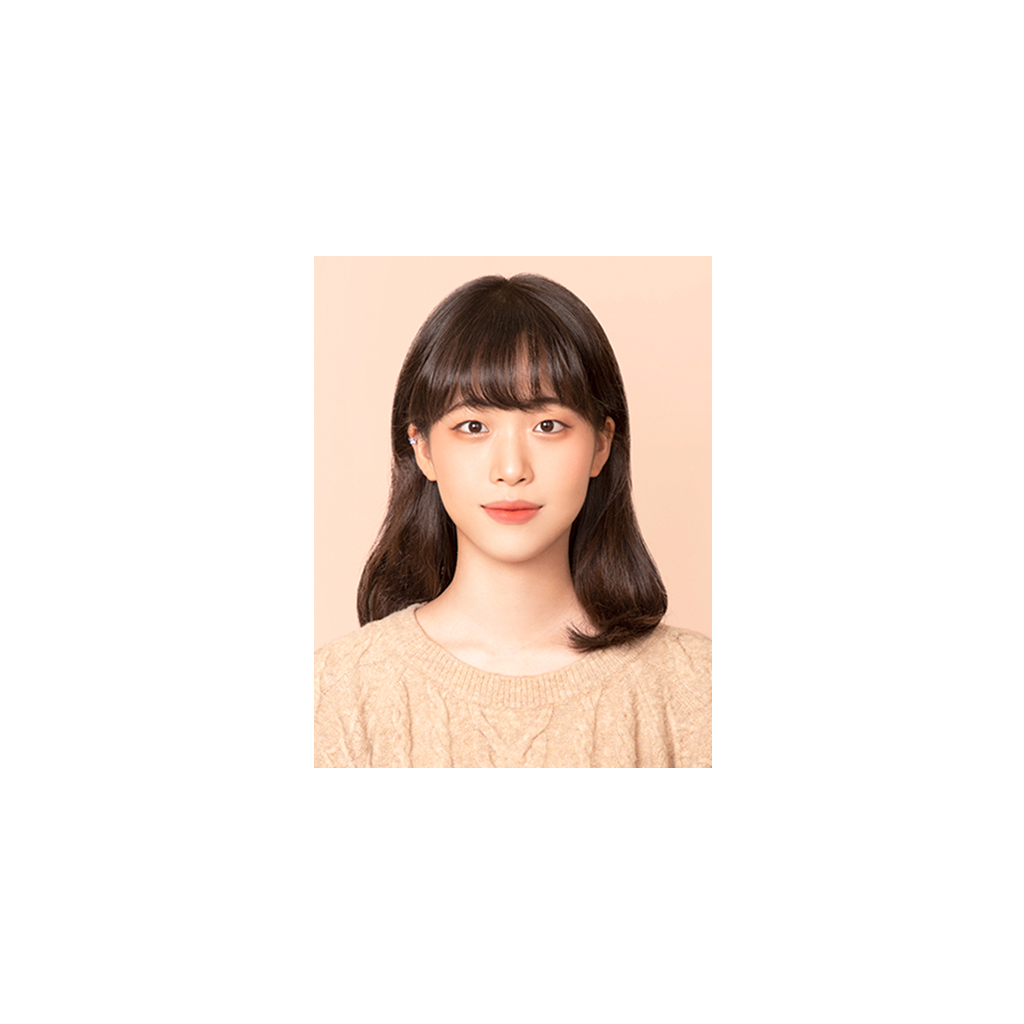
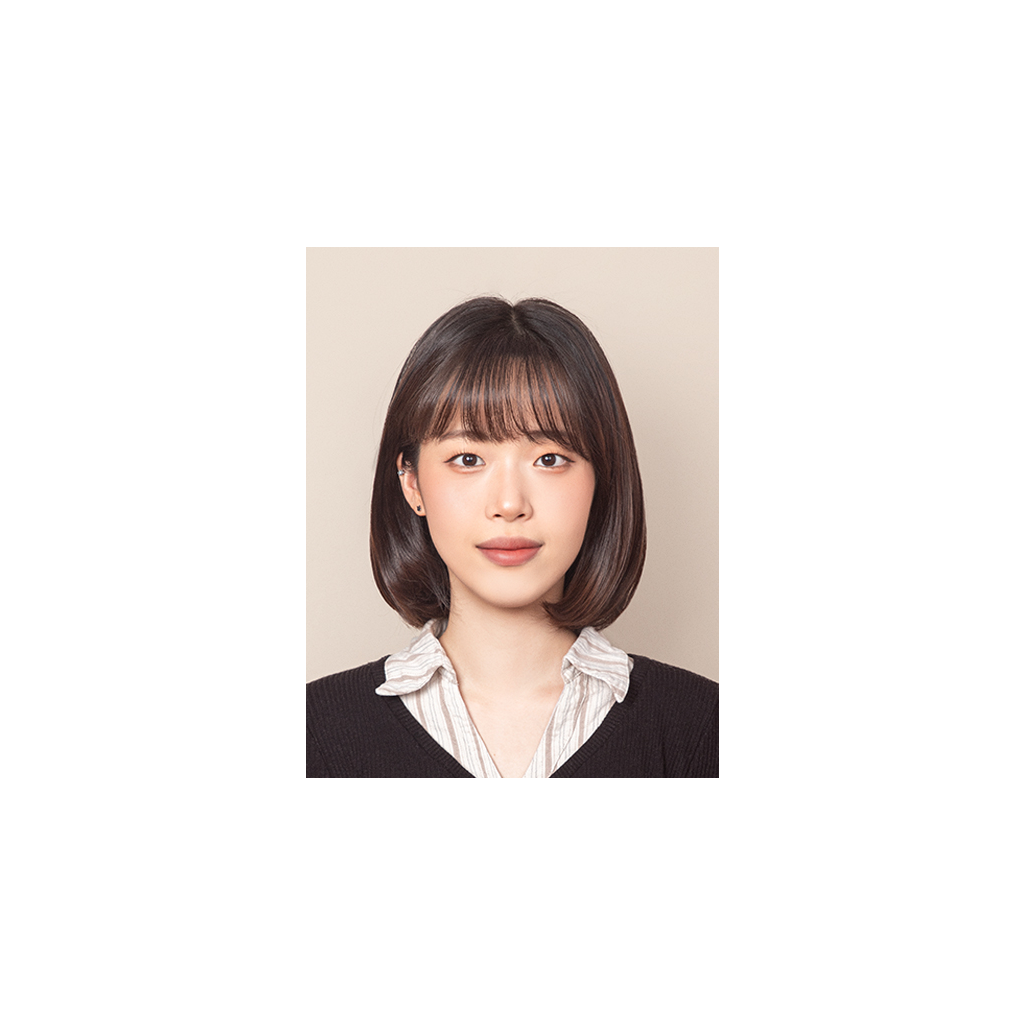
deploy: 90684a9ec6cb55dcc9f29e7a7fc66c202850804f

Changed region(s): [[0.2812, 0.2188, 0.7188, 0.7812]]

diff --git a/index.html b/index.html
@@ -13,7 +13,7 @@
 </span><span class=article-date></span></div><a href=./group/seungjun.html><div class=img-hover-zoom><img src=./group/seungjun/featured_hu8293042916043213150.webp height=455 width=808 class=article-banner alt="Seungjun Na" loading=lazy></div></a><div class="section-subheading article-title mb-1 mt-3"><a href=./group/seungjun.html>Seungjun Na</a></div><a href=./group/seungjun.html class=summary-link><div class=article-style><p><h3 id=intern-class-of-2025>Intern (Class of 2025)</h3><p>B.S Environmental engineering, Kangwon National University (Expected in Feb. 2027).</p><p><strong>Research topic:</strong><br>Energy recovery, Process modeling, Anaerobic digestion, Techno-economic analysis (TEA), Environmental impact assessment (EIA), Life-cycle assessment (LCA)</p></p></div></a><div class=btn-links><a class="btn btn-outline-primary btn-page-header btn-sm" href=mailto:zofldj54@kangwon.ac.kr><i class="fas fa-envelope mr-1"></i>zofldj54@kangwon.ac.kr</a></div></div></div><div class="project-card project-item isotope-item js-id-Intern"><div class="card-simple view-card"><div class=article-metadata><span class=article-date>Posted Sep 1, 2025
 </span><span class=article-date></span></div><a href=./group/taeyoon.html><div class=img-hover-zoom><img src=./group/taeyoon/featured_hu17779312441646726429.webp height=455 width=808 class=article-banner alt="Taeyoon Kim" loading=lazy></div></a><div class="section-subheading article-title mb-1 mt-3"><a href=./group/taeyoon.html>Taeyoon Kim</a></div><a href=./group/taeyoon.html class=summary-link><div class=article-style><p><h3 id=intern-founding-team>Intern (Founding team)</h3><p>B.S Environmental engineering, Kangwon National University (Expected in Aug. 2026).</p><p><strong>Research topic:</strong><br>Multimodal AI, Air quality, Spatial and temporal analysis, Scenario analysis</p></p></div></a><div class=btn-links><a class="btn btn-outline-primary btn-page-header btn-sm" href=mailto:ytk0816@naver.com><i class="fas fa-envelope mr-1"></i>ytk0816@naver.com</a></div></div></div><div class="project-card project-item isotope-item js-id-Intern"><div class="card-simple view-card"><div class=article-metadata><span class=article-date>Posted Sep 1, 2025
 </span><span class=article-date></span></div><a href=./group/wonjae.html><div class=img-hover-zoom><img src=./group/wonjae/featured_hu14562645930733829773.webp height=455 width=808 class=article-banner alt="Wonjae Choi" loading=lazy></div></a><div class="section-subheading article-title mb-1 mt-3"><a href=./group/wonjae.html>Wonjae Choi</a></div><a href=./group/wonjae.html class=summary-link><div class=article-style><p><h3 id=intern-founding-team>Intern (Founding team)</h3><p>B.S Environmental engineering, Kangwon National University (Expected in Aug. 2026).</p><p><strong>Research topic:</strong><br>Multimodal AI, Air quality, Spatial and temporal analysis, Scenario analysis</p></p></div></a><div class=btn-links><a class="btn btn-outline-primary btn-page-header btn-sm" href=mailto:wonjae6147@kangwon.ac.kr><i class="fas fa-envelope mr-1"></i>wonjae6147@kangwon.ac.kr</a></div></div></div><div class="project-card project-item isotope-item js-id-Researcher"><div class="card-simple view-card"><div class=article-metadata><span class=article-date>Posted Apr 1, 2025
-</span><span class=article-date></span></div><a href=./group/seonju.html><div class=img-hover-zoom><img src=./group/seonju/featured_hu10990116834252730146.webp height=455 width=808 class=article-banner alt="Seonju Kim" loading=lazy></div></a><div class="section-subheading article-title mb-1 mt-3"><a href=./group/seonju.html>Seonju Kim</a></div><a href=./group/seonju.html class=summary-link><div class=article-style><p><h3 id=researcher-integrated-bsms-course>Researcher (Integrated BS/MS course)</h3><p>B.S Environmental engineering, Kangwon National University (Expected in Aug. 2026).</p><p><strong>Research topic:</strong><br>AI, Process optimization, Autonomous design and process synthesis, Decarbonization</p></p></div></a><div class=btn-links><a class="btn btn-outline-primary btn-page-header btn-sm" href=mailto:sun_zooo@kangwon.ac.kr><i class="fas fa-envelope mr-1"></i>sun_zooo@kangwon.ac.kr</a></div></div></div><div class="project-card project-item isotope-item js-id-Leader"><div class="card-simple view-card"><div class=article-metadata><span class=article-date>Posted Mar 1, 2025
+</span><span class=article-date></span></div><a href=./group/seonju.html><div class=img-hover-zoom><img src=./group/seonju/featured_hu15458379116448266095.webp height=455 width=808 class=article-banner alt="Seonju Kim" loading=lazy></div></a><div class="section-subheading article-title mb-1 mt-3"><a href=./group/seonju.html>Seonju Kim</a></div><a href=./group/seonju.html class=summary-link><div class=article-style><p><h3 id=researcher-integrated-bsms-course>Researcher (Integrated BS/MS course)</h3><p>B.S Environmental engineering, Kangwon National University (Expected in Aug. 2026).</p><p><strong>Research topic:</strong><br>AI, Process optimization, Autonomous design and process synthesis, Decarbonization</p></p></div></a><div class=btn-links><a class="btn btn-outline-primary btn-page-header btn-sm" href=mailto:sun_zooo@kangwon.ac.kr><i class="fas fa-envelope mr-1"></i>sun_zooo@kangwon.ac.kr</a></div></div></div><div class="project-card project-item isotope-item js-id-Leader"><div class="card-simple view-card"><div class=article-metadata><span class=article-date>Posted Mar 1, 2025
 </span><span class=article-date></span></div><a href=./group/sungku.html><div class=img-hover-zoom><img src=./group/sungku/featured_hu13287588013548874910.webp height=455 width=808 class=article-banner alt="SungKu Heo, Ph.D." loading=lazy></div></a><div class="section-subheading article-title mb-1 mt-3"><a href=./group/sungku.html>SungKu Heo, Ph.D.</a></div><a href=./group/sungku.html class=summary-link><div class=article-style><p><h3 id=leader>Leader</h3><p>Associate Professor, Dept. of Environmental Engineering, Kangwon National University</p></p></div></a><div class=btn-links><a class="btn btn-outline-primary btn-page-header btn-sm" href=mailto:sungku.heo@kangwon.ac.kr><i class="fas fa-envelope mr-1"></i>sungku.heo@kangwon.ac.kr</a></div></div></div></div></div></div></div></section><section id=publications class="home-section wg-pages"><div class=home-section-bg></div><div class=container><div class=row><div class="section-heading col-12 col-lg-4 mb-3 mb-lg-0 d-flex flex-column align-items-center align-items-lg-start"><h1 class=mb-0>Publications</h1><p class=mt-1>See also my <a href="https://scholar.google.com/citations?hl=ko&amp;user=Xix_ZHoAAAAJ" target=_blank rel=noopener>Scholar</a> profile</p></div><div class="col-12 col-lg-8"><div class="pub-list-item view-citation" style=margin-bottom:1rem><i class="far fa-file-alt pub-icon" aria-hidden=true></i>
 <span class="article-metadata li-cite-author"><span>SangYoun Kim</span>, <span>Shahzeb Tariq</span>, <span>SungKu Heo</span>, <span>Mohammad Moosazadeh</span>, <span>ChangKyoo Yoo</span>
 </span>(2025).

diff --git a/group/seonju.html b/group/seonju.html
@@ -10,7 +10,7 @@ AI, Process optimization, Autonomous design and process synthesis, Decarbonizati
 <span><i class="fas fa-bars"></i></span></button><div class="navbar-brand-mobile-wrapper d-inline-flex d-lg-none"><a class=navbar-brand href=../><img src=../media/logo.svg alt="Greenest A.I. Lab"></a></div><div class="navbar-collapse main-menu-item collapse justify-content-start" id=navbar-content><ul class="navbar-nav d-md-inline-flex"><li class=nav-item><a class=nav-link href=../index.html><span>Home</span></a></li><li class=nav-item><a class=nav-link href=../#group><span>Team</span></a></li><li class=nav-item><a class=nav-link href=../#publications><span>Publications</span></a></li><li class=nav-item><a class=nav-link href=../#news><span>News</span></a></li></ul></div><ul class="nav-icons navbar-nav flex-row ml-auto d-flex pl-md-2"><li class="nav-item d-none d-lg-inline-flex"><a class=nav-link href=https://github.com/GreenestAI target=_blank rel=noopener aria-label=github><i class="fab fa-github" aria-hidden=true></i></a></li><li class="nav-item dropdown theme-dropdown"><a href=# class=nav-link data-toggle=dropdown aria-haspopup=true aria-label="Display preferences"><i class="fas fa-moon" aria-hidden=true></i></a><div class=dropdown-menu><a href=# class="dropdown-item js-set-theme-light"><span>Light</span>
 </a><a href=# class="dropdown-item js-set-theme-dark"><span>Dark</span>
 </a><a href=# class="dropdown-item js-set-theme-auto"><span>Automatic</span></a></div></li></ul></div></nav></header></div><div class=page-body><div class="container-fluid docs"><div class=row><div class="col-xl-2 col-lg-2 d-none d-xl-block d-lg-block empty"></div><div class="col-2 col-xl-2 col-lg-2 d-none d-lg-block docs-toc"><ul class="nav toc-top"><li><a href=# id=back_to_top class=docs-toc-title>Contents</a></li></ul><nav id=TableOfContents><ul><li><ul><li><ul><li><a href=#researcher-integrated-bsms-course>Researcher (Integrated BS/MS course)</a></li></ul></li><li><a href=#poster-presentations>Poster Presentations:</a></li></ul></li></ul></nav></div><main class="col-xl-8 col-lg-8 docs-content" role=main><article class=article><div class="article-container pt-3"><h1 class=page-title>Seonju Kim</h1><div class=article-metadata><span class=article-date>Posted Apr 1, 2025
-</span><span class=article-date></span></div><div class="btn-links mb-3"><a class="btn btn-outline-primary btn-page-header" href=mailto:sun_zooo@kangwon.ac.kr><i class="fas fa-envelope mr-1"></i>sun_zooo@kangwon.ac.kr</a></div></div><div class="article-header article-container featured-image-wrapper mt-4 mb-4" style=max-width:720px;max-height:720px><div style=position:relative><img src=../group/seonju/featured_hu14014798711531770071.webp width=720 height=720 alt class=featured-image>
+</span><span class=article-date></span></div><div class="btn-links mb-3"><a class="btn btn-outline-primary btn-page-header" href=mailto:sun_zooo@kangwon.ac.kr><i class="fas fa-envelope mr-1"></i>sun_zooo@kangwon.ac.kr</a></div></div><div class="article-header article-container featured-image-wrapper mt-4 mb-4" style=max-width:720px;max-height:720px><div style=position:relative><img src=../group/seonju/featured_hu14509316335289313516.webp width=720 height=720 alt class=featured-image>
 <span class=article-header-caption>Seonju Kim</span></div></div><div class=article-container><div class=article-style align=justify><h3 id=researcher-integrated-bsms-course>Researcher (Integrated BS/MS course)</h3><p>B.S Environmental engineering, Kangwon National University (Expected in Aug. 2026).</p><p><strong>Research topic:</strong><br>AI, Process optimization, Autonomous design and process synthesis, Decarbonization</p><h2 id=poster-presentations>Poster Presentations:</h2><p><strong><a href=https://drive.google.com/file/d/1PtWzRDfFsCfqVeHXAH6qSWhHvORaWJNS/view target=_blank rel=noopener>1. Water AI-ready data 기반 N₂O 소프트센싱 알고리즘 개발</a></strong><br>Author: <u>Seonju Kim</u>, Sungku Heo<br>Conference: KSIEC Fall Meeting and Conference, Daegu, Korea, 2025</p></div><script src=../js/jquery-3.6.2.min.js></script><script src=../js/transition.js></script><script src=../js/collapse.js></script><script src=../js/dropdown.js></script><script src=https://cdn.jsdelivr.net/npm/popper.js@1.16.0/dist/umd/popper.min.js></script><script src=../js/codefolding.js></script><link rel=stylesheet href=../css/codefolding.css><script>$(document).ready(function(){window.initializeCodeFolding("show"==="show")})</script><div class=article-tags><a class="badge badge-light" href=../tag/researcher.html>Researcher</a></div><div class="media author-card content-widget-hr"><img class="avatar mr-3 avatar-circle" src=../authors/admin/avatar_hu9480991034087633340.png alt="Greenest A.I. Lab"><div class=media-body><h5 class=card-title>Greenest A.I. Lab</h5><h6 class=card-subtitle>Led by Prof. SungKu Heo</h6><p class=card-text>Environmental engineer researcher in environmental modeling and environmental AI in Kangwon National University (Department of Civil and Environmental Engineering, Environmental Engineering Major), in Chuncheon-si, Republic of Korea</p><ul class=network-icon aria-hidden=true><li><a href=mailto:sungku.heo@kangwon.ac.kr><i class="fas fa-envelope"></i></a></li><li><a href=https://github.com/GreenestAI target=_blank rel=noopener><i class="fab fa-github"></i></a></li><li><a href="https://scholar.google.com/citations?hl=ko&amp;user=Xix_ZHoAAAAJ" target=_blank rel=noopener><i class="fas fa-graduation-cap"></i></a></li><li><a href=https://sites.google.com/view/sungku-heo target=_blank rel=noopener><i class="ai ai-cv"></i></a></li></ul></div></div></div></article></main></div></div></div><div class=page-footer><div class=container><footer class=site-footer><p class="powered-by copyright-license-text">© 2026 Sungku Heo, based on work by Simon Gravelle. This work is licensed under <a href=https://creativecommons.org/licenses/by-sa/4.0 rel="noopener noreferrer" target=_blank>CC BY SA 4.0</a>.</p><p class="powered-by footer-license-icons"><a href=https://creativecommons.org/licenses/by-sa/4.0 rel="noopener noreferrer" target=_blank aria-label="Creative Commons"><i class="fab fa-creative-commons fa-2x" aria-hidden=true></i>
 <i class="fab fa-creative-commons-by fa-2x" aria-hidden=true></i>
 <i class="fab fa-creative-commons-sa fa-2x" aria-hidden=true></i></a></p><br style=line-height:5px></footer></div></div><script src=../js/vendor-bundle.min.4684ca30d68fb8aed8d4debfcc18beed.js></script><script id=search-hit-fuse-template type=text/x-template>

diff --git a/group.html b/group.html
@@ -9,7 +9,7 @@
 </span><span class=article-date></span></div></div><div class=btn-links><a class="btn btn-outline-primary btn-page-header btn-sm" href=mailto:zofldj54@kangwon.ac.kr><i class="fas fa-envelope mr-1"></i>zofldj54@kangwon.ac.kr</a></div></div><div class=ml-3><a href=./group/seungjun.html><img src=./group/seungjun/featured_hu8708657372669352291.webp height=150 width=150 alt="Seungjun Na" loading=lazy></a></div></div><div class="media stream-item view-compact"><div class=media-body><div class="section-subheading article-title mb-0 mt-0"><a href=./group/taeyoon.html>Taeyoon Kim</a></div><a href=./group/taeyoon.html class=summary-link><div class=article-style><h3 id=intern-founding-team>Intern (Founding team)</h3><p>B.S Environmental engineering, Kangwon National University (Expected in Aug. 2026).</p><p><strong>Research topic:</strong><br>Multimodal AI, Air quality, Spatial and temporal analysis, Scenario analysis</p></div></a><div class="stream-meta article-metadata"><div class=article-metadata><span class=article-date>Posted Sep 1, 2025
 </span><span class=article-date></span></div></div><div class=btn-links><a class="btn btn-outline-primary btn-page-header btn-sm" href=mailto:ytk0816@naver.com><i class="fas fa-envelope mr-1"></i>ytk0816@naver.com</a></div></div><div class=ml-3><a href=./group/taeyoon.html><img src=./group/taeyoon/featured_hu12723303105613768411.webp height=150 width=150 alt="Taeyoon Kim" loading=lazy></a></div></div><div class="media stream-item view-compact"><div class=media-body><div class="section-subheading article-title mb-0 mt-0"><a href=./group/wonjae.html>Wonjae Choi</a></div><a href=./group/wonjae.html class=summary-link><div class=article-style><h3 id=intern-founding-team>Intern (Founding team)</h3><p>B.S Environmental engineering, Kangwon National University (Expected in Aug. 2026).</p><p><strong>Research topic:</strong><br>Multimodal AI, Air quality, Spatial and temporal analysis, Scenario analysis</p></div></a><div class="stream-meta article-metadata"><div class=article-metadata><span class=article-date>Posted Sep 1, 2025
 </span><span class=article-date></span></div></div><div class=btn-links><a class="btn btn-outline-primary btn-page-header btn-sm" href=mailto:wonjae6147@kangwon.ac.kr><i class="fas fa-envelope mr-1"></i>wonjae6147@kangwon.ac.kr</a></div></div><div class=ml-3><a href=./group/wonjae.html><img src=./group/wonjae/featured_hu62400872110670328.webp height=150 width=150 alt="Wonjae Choi" loading=lazy></a></div></div><div class="media stream-item view-compact"><div class=media-body><div class="section-subheading article-title mb-0 mt-0"><a href=./group/seonju.html>Seonju Kim</a></div><a href=./group/seonju.html class=summary-link><div class=article-style><h3 id=researcher-integrated-bsms-course>Researcher (Integrated BS/MS course)</h3><p>B.S Environmental engineering, Kangwon National University (Expected in Aug. 2026).</p><p><strong>Research topic:</strong><br>AI, Process optimization, Autonomous design and process synthesis, Decarbonization</p></div></a><div class="stream-meta article-metadata"><div class=article-metadata><span class=article-date>Posted Apr 1, 2025
-</span><span class=article-date></span></div></div><div class=btn-links><a class="btn btn-outline-primary btn-page-header btn-sm" href=mailto:sun_zooo@kangwon.ac.kr><i class="fas fa-envelope mr-1"></i>sun_zooo@kangwon.ac.kr</a></div></div><div class=ml-3><a href=./group/seonju.html><img src=./group/seonju/featured_hu15208015753066469611.webp height=150 width=150 alt="Seonju Kim" loading=lazy></a></div></div><div class="media stream-item view-compact"><div class=media-body><div class="section-subheading article-title mb-0 mt-0"><a href=./group/sungku.html>SungKu Heo, Ph.D.</a></div><a href=./group/sungku.html class=summary-link><div class=article-style><h3 id=leader>Leader</h3><p>Associate Professor, Dept. of Environmental Engineering, Kangwon National University</p></div></a><div class="stream-meta article-metadata"><div class=article-metadata><span class=article-date>Posted Mar 1, 2025
+</span><span class=article-date></span></div></div><div class=btn-links><a class="btn btn-outline-primary btn-page-header btn-sm" href=mailto:sun_zooo@kangwon.ac.kr><i class="fas fa-envelope mr-1"></i>sun_zooo@kangwon.ac.kr</a></div></div><div class=ml-3><a href=./group/seonju.html><img src=./group/seonju/featured_hu8562309419910309964.webp height=150 width=150 alt="Seonju Kim" loading=lazy></a></div></div><div class="media stream-item view-compact"><div class=media-body><div class="section-subheading article-title mb-0 mt-0"><a href=./group/sungku.html>SungKu Heo, Ph.D.</a></div><a href=./group/sungku.html class=summary-link><div class=article-style><h3 id=leader>Leader</h3><p>Associate Professor, Dept. of Environmental Engineering, Kangwon National University</p></div></a><div class="stream-meta article-metadata"><div class=article-metadata><span class=article-date>Posted Mar 1, 2025
 </span><span class=article-date></span></div></div><div class=btn-links><a class="btn btn-outline-primary btn-page-header btn-sm" href=mailto:sungku.heo@kangwon.ac.kr><i class="fas fa-envelope mr-1"></i>sungku.heo@kangwon.ac.kr</a></div></div><div class=ml-3><a href=./group/sungku.html><img src=./group/sungku/featured_hu1453042153983417741.webp height=150 width=150 alt="SungKu Heo, Ph.D." loading=lazy></a></div></div></div></div><div class=page-footer><div class=container><footer class=site-footer><p class="powered-by copyright-license-text">© 2026 Sungku Heo, based on work by Simon Gravelle. This work is licensed under <a href=https://creativecommons.org/licenses/by-sa/4.0 rel="noopener noreferrer" target=_blank>CC BY SA 4.0</a>.</p><p class="powered-by footer-license-icons"><a href=https://creativecommons.org/licenses/by-sa/4.0 rel="noopener noreferrer" target=_blank aria-label="Creative Commons"><i class="fab fa-creative-commons fa-2x" aria-hidden=true></i>
 <i class="fab fa-creative-commons-by fa-2x" aria-hidden=true></i>
 <i class="fab fa-creative-commons-sa fa-2x" aria-hidden=true></i></a></p><br style=line-height:5px></footer></div></div><script src=./js/vendor-bundle.min.4684ca30d68fb8aed8d4debfcc18beed.js></script><script id=search-hit-fuse-template type=text/x-template>

diff --git a/tag/researcher.html b/tag/researcher.html
@@ -2,7 +2,7 @@
 <span><i class="fas fa-bars"></i></span></button><div class="navbar-brand-mobile-wrapper d-inline-flex d-lg-none"><a class=navbar-brand href=../><img src=../media/logo.svg alt="Greenest A.I. Lab"></a></div><div class="navbar-collapse main-menu-item collapse justify-content-start" id=navbar-content><ul class="navbar-nav d-md-inline-flex"><li class=nav-item><a class=nav-link href=../index.html><span>Home</span></a></li><li class=nav-item><a class=nav-link href=../#group><span>Team</span></a></li><li class=nav-item><a class=nav-link href=../#publications><span>Publications</span></a></li><li class=nav-item><a class=nav-link href=../#news><span>News</span></a></li></ul></div><ul class="nav-icons navbar-nav flex-row ml-auto d-flex pl-md-2"><li class="nav-item d-none d-lg-inline-flex"><a class=nav-link href=https://github.com/GreenestAI target=_blank rel=noopener aria-label=github><i class="fab fa-github" aria-hidden=true></i></a></li><li class="nav-item dropdown theme-dropdown"><a href=# class=nav-link data-toggle=dropdown aria-haspopup=true aria-label="Display preferences"><i class="fas fa-moon" aria-hidden=true></i></a><div class=dropdown-menu><a href=# class="dropdown-item js-set-theme-light"><span>Light</span>
 </a><a href=# class="dropdown-item js-set-theme-dark"><span>Dark</span>
 </a><a href=# class="dropdown-item js-set-theme-auto"><span>Automatic</span></a></div></li></ul></div></nav></header></div><div class=page-body><div class="universal-wrapper pt-3"><h1>Researcher</h1></div><div class=universal-wrapper><div class="media stream-item view-compact"><div class=media-body><div class="section-subheading article-title mb-0 mt-0"><a href=../group/seonju.html>Seonju Kim</a></div><a href=../group/seonju.html class=summary-link><div class=article-style><h3 id=researcher-integrated-bsms-course>Researcher (Integrated BS/MS course)</h3><p>B.S Environmental engineering, Kangwon National University (Expected in Aug. 2026).</p><p><strong>Research topic:</strong><br>AI, Process optimization, Autonomous design and process synthesis, Decarbonization</p></div></a><div class="stream-meta article-metadata"><div class=article-metadata><span class=article-date>Posted Apr 1, 2025
-</span><span class=article-date></span></div></div><div class=btn-links><a class="btn btn-outline-primary btn-page-header btn-sm" href=mailto:sun_zooo@kangwon.ac.kr><i class="fas fa-envelope mr-1"></i>sun_zooo@kangwon.ac.kr</a></div></div><div class=ml-3><a href=../group/seonju.html><img src=../group/seonju/featured_hu15208015753066469611.webp height=150 width=150 alt="Seonju Kim" loading=lazy></a></div></div></div></div><div class=page-footer><div class=container><footer class=site-footer><p class="powered-by copyright-license-text">© 2026 Sungku Heo, based on work by Simon Gravelle. This work is licensed under <a href=https://creativecommons.org/licenses/by-sa/4.0 rel="noopener noreferrer" target=_blank>CC BY SA 4.0</a>.</p><p class="powered-by footer-license-icons"><a href=https://creativecommons.org/licenses/by-sa/4.0 rel="noopener noreferrer" target=_blank aria-label="Creative Commons"><i class="fab fa-creative-commons fa-2x" aria-hidden=true></i>
+</span><span class=article-date></span></div></div><div class=btn-links><a class="btn btn-outline-primary btn-page-header btn-sm" href=mailto:sun_zooo@kangwon.ac.kr><i class="fas fa-envelope mr-1"></i>sun_zooo@kangwon.ac.kr</a></div></div><div class=ml-3><a href=../group/seonju.html><img src=../group/seonju/featured_hu8562309419910309964.webp height=150 width=150 alt="Seonju Kim" loading=lazy></a></div></div></div></div><div class=page-footer><div class=container><footer class=site-footer><p class="powered-by copyright-license-text">© 2026 Sungku Heo, based on work by Simon Gravelle. This work is licensed under <a href=https://creativecommons.org/licenses/by-sa/4.0 rel="noopener noreferrer" target=_blank>CC BY SA 4.0</a>.</p><p class="powered-by footer-license-icons"><a href=https://creativecommons.org/licenses/by-sa/4.0 rel="noopener noreferrer" target=_blank aria-label="Creative Commons"><i class="fab fa-creative-commons fa-2x" aria-hidden=true></i>
 <i class="fab fa-creative-commons-by fa-2x" aria-hidden=true></i>
 <i class="fab fa-creative-commons-sa fa-2x" aria-hidden=true></i></a></p><br style=line-height:5px></footer></div></div><script src=../js/vendor-bundle.min.4684ca30d68fb8aed8d4debfcc18beed.js></script><script id=search-hit-fuse-template type=text/x-template>
     <div class="search-hit" id="summary-{{key}}">
